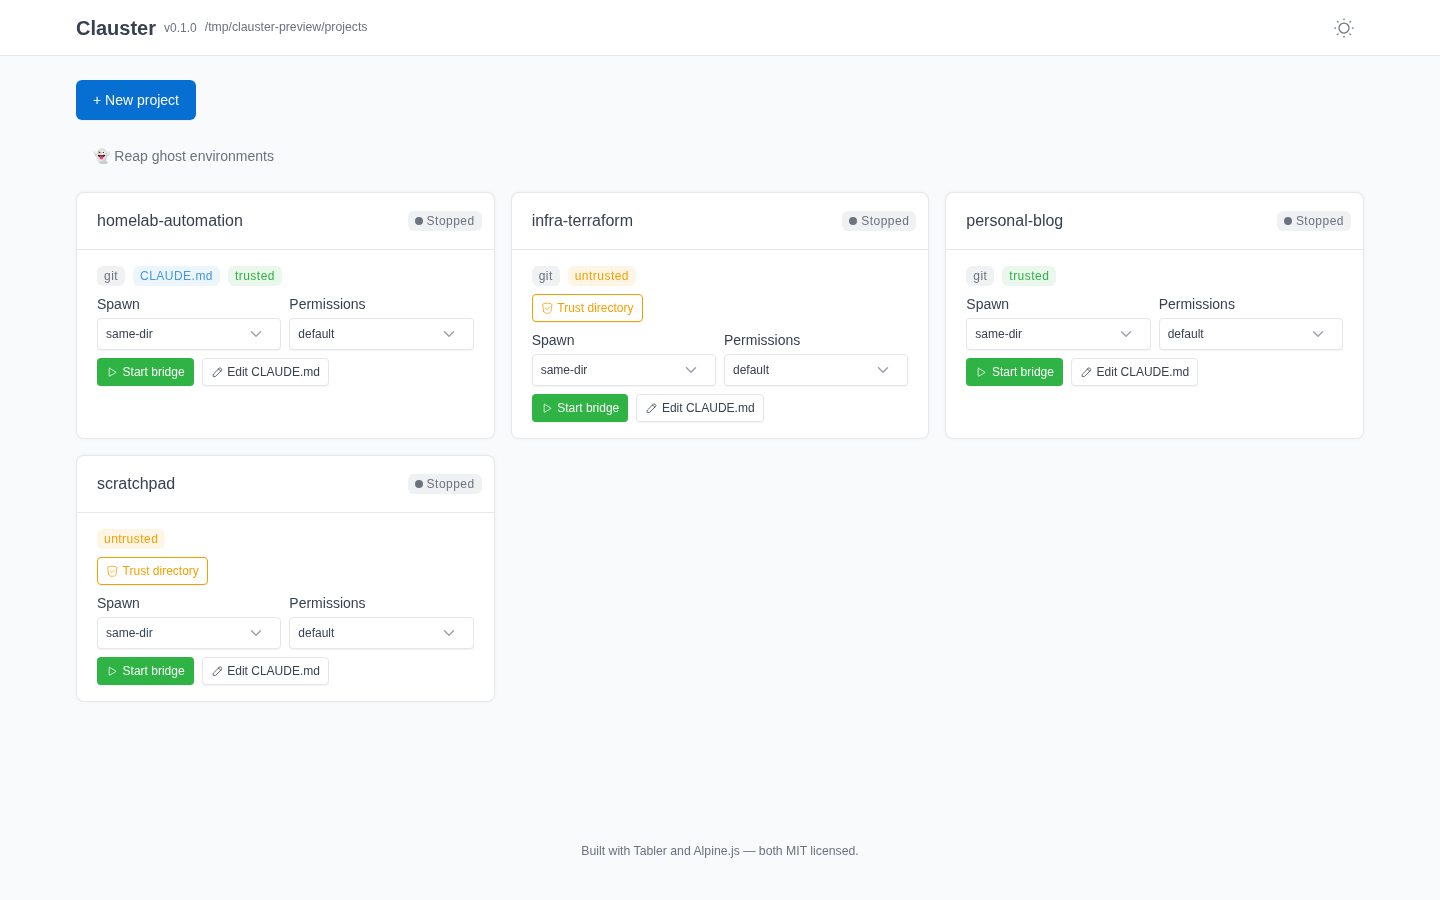
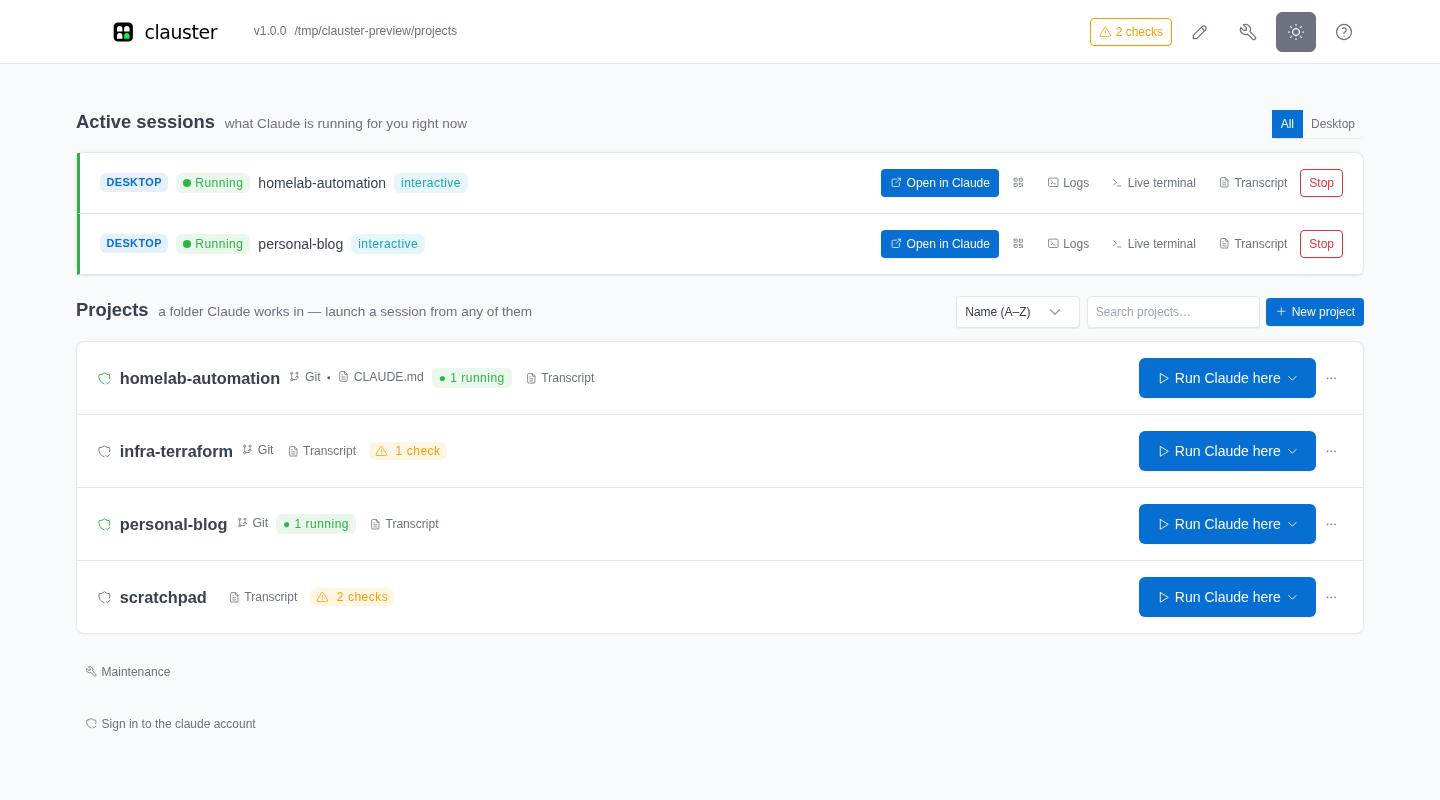
docs(readme): refresh screenshots on the 1.0 UI (#1158)
## Why

The four README screenshots were captured on **v0.1.0 (2026-06-02)** and
showed a UI
that no longer exists:

- **card grid** instead of the current project rows
- **"Start bridge"** instead of **"Run Claude here"**
- no **Active sessions** zone at all (it's now the top-of-page zone)
- header path leaked a host-specific directory

## What changed

Recaptured every panel against a **1.0.0** build, driven through the
real dashboard
(sessions below are genuinely running, not mocked):

| Asset | Status |
| --- | --- |
| `dashboard-light.png` | replaced — Active sessions zone with two live
sessions |
| `dashboard-dark.png` | replaced, and **now actually used** — it was an
orphan asset before |
| `new-project-clone.png` | replaced — clone form, current caveat copy |
| `login-dark.png` | replaced |
| `launch-menu.png` | **new** — the "How do you want to drive it?" menu
(claude.ai/Desktop · Background · in-browser) plus the permission-mode
picker |

README table goes from 2×2 to 3×2 to fit the launch menu and the dark
panel.

Captions were re-checked against the code rather than carried over:

- theme persistence verified — `localStorage["clauster-theme"]`,
defaults to `dark`
- the clone caption now matches the UI's own copy ("https/ssh only;
cloning fetches
files, runs nothing"); the old "cloned code runs only on Start" wording
no longer
  matches what the panel says

Screenshots use a neutral `/tmp/clauster-preview/projects` path — no
host specifics.

## Not in scope
[…]

diff --git a/README.md b/README.md
@@ -53,21 +53,31 @@ dashboard password, writes a `clauster.yml`, and starts on it. Then click
 <table>
   <tr>
     <td width="50%" align="center">
-      <img src="https://raw.githubusercontent.com/schubydoo/clauster/main/docs/screenshots/dashboard-light.png" alt="Dashboard, light theme"><br>
-      <sub><b>Dark / light</b> — theme toggle persists across reloads</sub>
+      <img src="https://raw.githubusercontent.com/schubydoo/clauster/main/docs/screenshots/dashboard-light.png" alt="Dashboard in the light theme: an Active sessions zone listing two running sessions, above a list of four projects"><br>
+      <sub><b>Light theme</b> — running sessions on top, projects below</sub>
     </td>
     <td width="50%" align="center">
-      <img src="https://raw.githubusercontent.com/schubydoo/clauster/main/docs/screenshots/new-project-clone.png" alt="Create or clone a project"><br>
-      <sub><b>Create or clone</b> — SSRF-guarded, cloned code runs only on Start</sub>
+      <img src="https://raw.githubusercontent.com/schubydoo/clauster/main/docs/screenshots/dashboard-dark.png" alt="The same dashboard in the dark theme"><br>
+      <sub><b>Dark theme</b> — the toggle persists across reloads</sub>
     </td>
   </tr>
   <tr>
     <td width="50%" align="center">
-      <img src="https://raw.githubusercontent.com/schubydoo/clauster/main/docs/screenshots/login-dark.png" alt="Password login"><br>
+      <img src="https://raw.githubusercontent.com/schubydoo/clauster/main/docs/screenshots/launch-menu.png" alt="A project's launch menu, offering three ways to drive a session — in claude.ai or Desktop, in the background, or in the browser — plus a permission-mode picker"><br>
+      <sub><b>Launch menu</b> — pick how to drive it, and the permission mode</sub>
+    </td>
+    <td width="50%" align="center">
+      <img src="https://raw.githubusercontent.com/schubydoo/clauster/main/docs/screenshots/new-project-clone.png" alt="The new-project panel with the clone-from-git-URL option selected"><br>
+      <sub><b>Create or clone</b> — https/ssh only; cloning fetches files, runs nothing</sub>
+    </td>
+  </tr>
+  <tr>
+    <td width="50%" align="center">
+      <img src="https://raw.githubusercontent.com/schubydoo/clauster/main/docs/screenshots/login-dark.png" alt="The Clauster password sign-in page"><br>
       <sub><b>Password login</b> — for non-loopback / networked deploys</sub>
     </td>
     <td width="50%" align="center" valign="middle">
-      <sub>Every action is reactive — cards insert, badges flip, and clone progress<br>
+      <sub>Every action is reactive — rows insert, badges flip, and clone progress<br>
       streams without a full-page reload. Self-hosted assets; no CDN, no trackers.</sub>
     </td>
   </tr>
